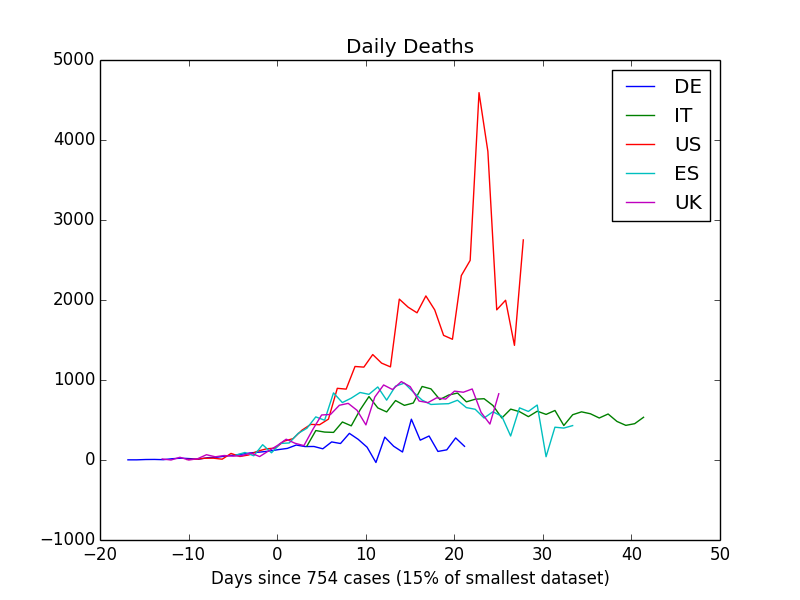
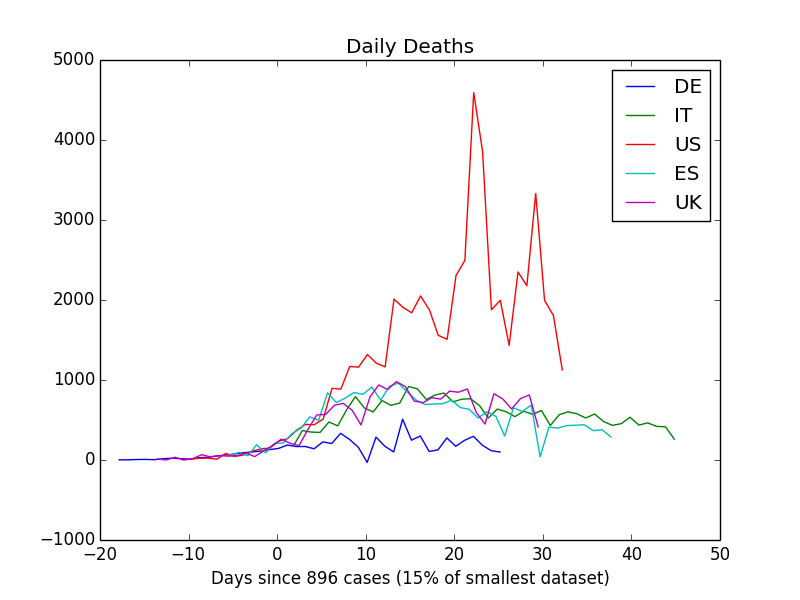
Update plots with data from April, 26th

Changed region(s): [[0.1875, 0.15, 0.8438, 0.78], [0.375, 0.93, 0.4375, 0.99]]

diff --git a/README.md b/README.md
@@ -2,7 +2,7 @@
 
 Data is taken from the [2019 Novel Coronavirus COVID-19 Data Repository by Johns Hopkins CSSE](https://github.com/CSSEGISandData/COVID-19)
 
-### Last update: 21.04.2020
+### Last update: 26.04.2020
 
 ### Cases
 
